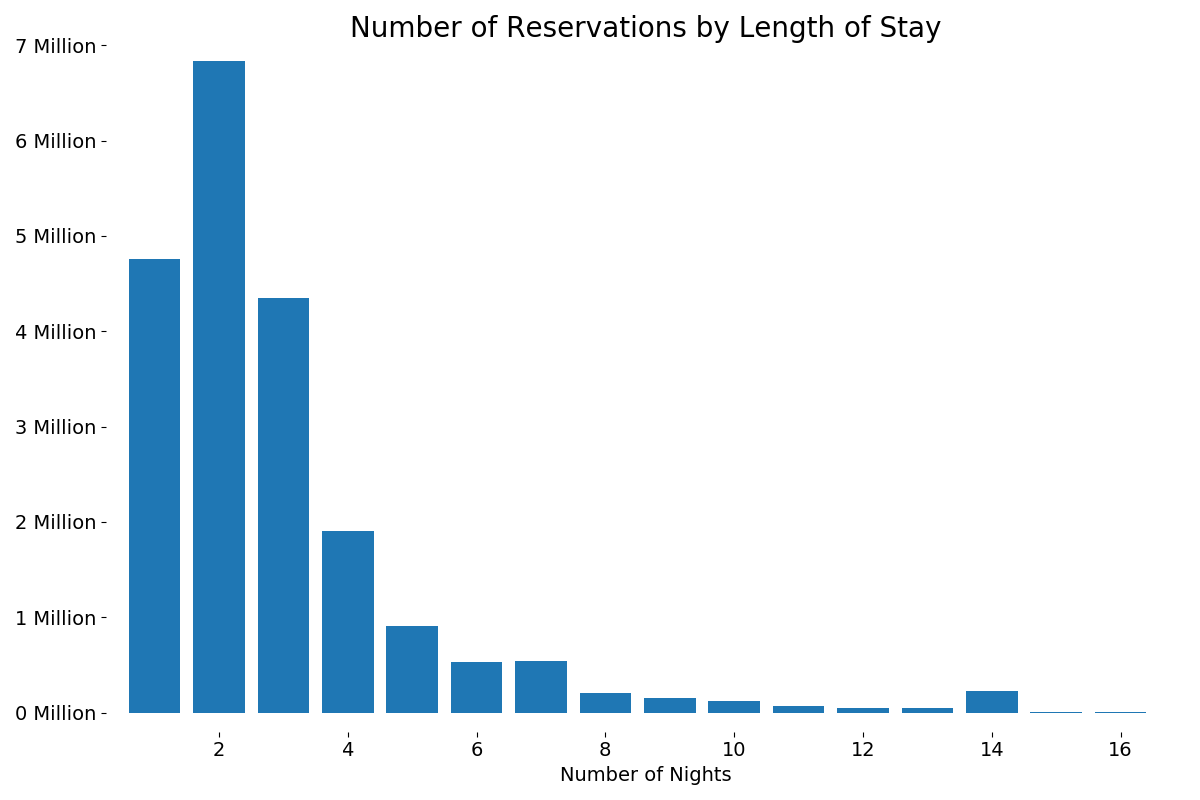
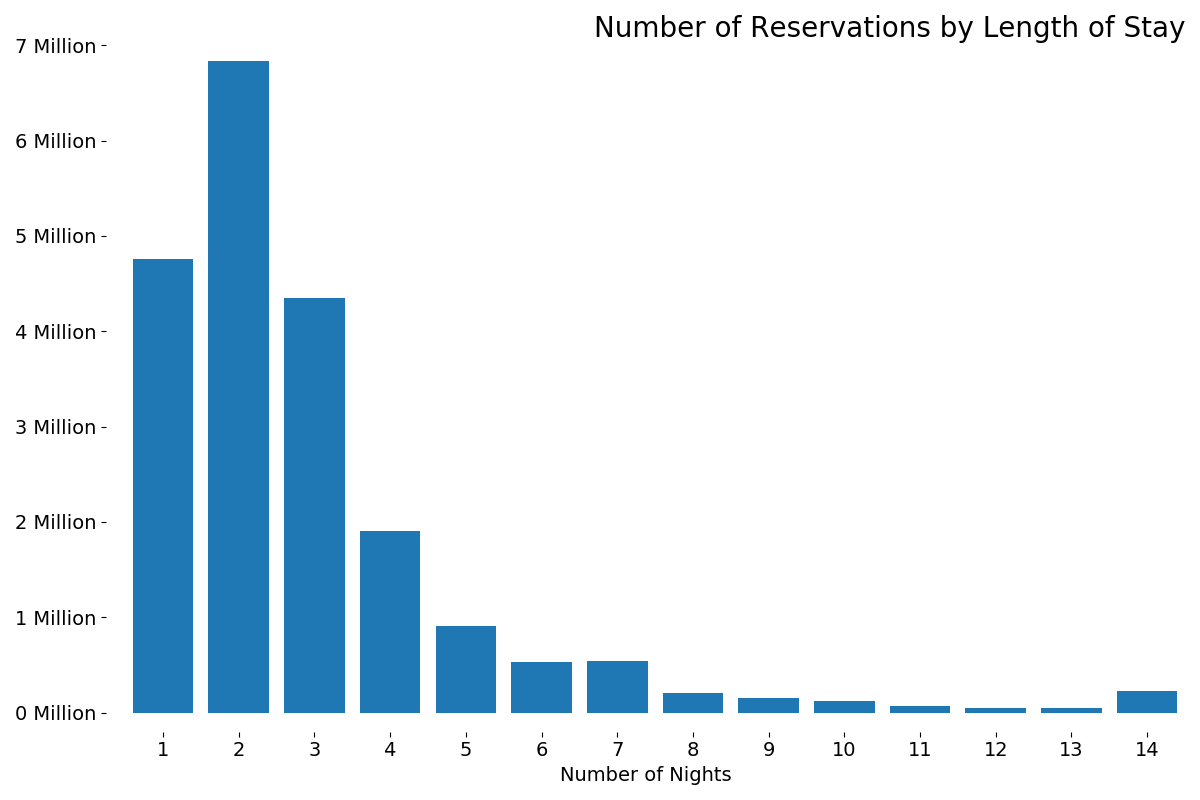
Tweak graphs, save README

diff --git a/src/visualizations/histogram_nights.py b/src/visualizations/histogram_nights.py
@@ -21,7 +21,6 @@ data['count(LengthOfStay)'] = 0
 for file in list_years:
     df = pd.read_pickle(cleanpath + 'CountsOfNights/' + file)
     df.fillna(0, inplace=True)
-    # data['count(LengthOfStay)'] += df['count(LengthOfStay)']
     data = pd.concat([data, df], sort=True)
 
 data = data.groupby('LengthOfStay').sum().reset_index()
@@ -35,7 +34,7 @@ ax = plt.subplot(111)
 
 plt.yticks(range(0, 7000001, 1000000),
            [str(x) + " Million" for x in range(0, 8)], fontsize=14)
-plt.xticks(fontsize=14)
+plt.xticks(range(1, 15), fontsize=14)
 
 ax.spines["top"].set_visible(False)
 ax.spines["bottom"].set_visible(False)
@@ -43,9 +42,11 @@ ax.spines["right"].set_visible(False)
 ax.spines["left"].set_visible(False)
 
 plt.ylim(-200000, 7000000)
-plt.xlim(.25, 17)
+plt.xlim(.25, 14.5)
 plt.xlabel('Number of Nights', fontsize=14)
-plt.title('Number of Reservations by Length of Stay', fontsize=20)
+plt.title('Number of Reservations by Length of Stay',
+          fontsize=20,
+          loc='right')
 
 plt.bar(data['LengthOfStay'], data['count(LengthOfStay)'])
 plt.tight_layout()

diff --git a/src/visualizations/make_gif.py b/src/visualizations/make_gif.py
@@ -27,7 +27,7 @@ def make_gif(sourcepath, folder, years=None):
                    append_images=frames[1:],
                    save_all=True,
                    duration=600,
-                   loop=1)
+                   loop=0)
 
 
 if __name__ == '__main__':

diff --git a/src/visualizations/maps/make_customer_distance.py b/src/visualizations/maps/make_customer_distance.py
@@ -3,7 +3,6 @@ import folium
 import os
 import time
 import selenium.webdriver
-import branca
 
 # Create filepaths within df directory
 mappath = os.path.split(os.path.abspath(''))[0]

diff --git a/src/visualizations/maps/make_facility_distance.py b/src/visualizations/maps/make_facility_distance.py
@@ -3,7 +3,6 @@ import folium
 import os
 import time
 import selenium.webdriver
-import branca
 
 # Create filepaths within df directory
 mappath = os.path.split(os.path.abspath(''))[0]

diff --git a/README.md b/README.md
@@ -40,7 +40,7 @@ The reservation data is provided as a seperate .csv for every year. Each year ha
 > LargeTentOver9x12 •
 > SmallTent
 
-In addition to the reservations, relational databases of campground information are also available for download.
+In addition to the reservations, relational databases of campground information are also available for download. One can extract another 50 attributes for every `FacilityID`.
 
 # Exploratory Analysis
 
@@ -50,23 +50,61 @@ Interestingly,  `Marinaboat` has only one non-null value in all of the years. Fu
 
 ![](/images/README/marinaboat.jpg)
 
-Formatting within the columns is mostly consistent, but does requrie type casting, truncation, and removing impurities.
+Formatting within the columns is mostly consistent, but does require type casting, truncation, and removing impurities.
 
-For most quereis, 35% of the data is removed for either formating or nulls or. For sorting by `FacilityZIP`, an unfortunate 60% is removed due to nulls.
+For most quereis, 35% of the data is removed for either formating or nulls. For sorting by `FacilityZIP`, an unfortunate 60% is removed due to nulls, but atleast 1 million rows remain in each year's data.
+
+# Conclusions
+
+## Distance Traveled vs. Number of Nights
+
+This analysis found no direct correlation between the average distance traveled<sup>[1](#myfootnote1)</sup> , and number of nights one stays at a facility. In almost every year, the standard deviation of the averages is greater than the mean itself.
+
+This data is complicated by rservations made to/from Alaska and Hawaii. Computation time did not allow for excluding these states as outliers.
+
+![](/images/HypothesisTest.png)
+
+However, the statistal distribution of the *averages for each year* do appear to differ with a pseudo p value of = 0.016
+
+These results are counterintuitive; it seems people travel longer the shorter the stay! Also, the distances for travel are improbable for a "weekend warior" trip. Fundamentally, the analysis is not accounting for how people actually travel. The basis for this analysis is one travels from the home address to the facility. In reality, reservations are likely linked together on road trips and vacations.
+
+![](/images/TypeOverTime.png)
+
+The large - and growing - proportion of resevations made for RV's and other motorized transport suppor this notion.
+
+## Distance by Customer's State
+![](/images/CustomerState.gif)
+
+As does the fact that, on average, reservations made from the North East, Flordia (and Hawaii and Alaska), are for a distance of +1,000 miles.
+
+## Distance by Destination's State
+![](/images/FacilityState.gif)
+
+Lastly, year after year, reservations are made from across the country to visit Alaska and the Grand Canyon.
+
+![](/images/README/manko.jpg)
+
 
 # Methods
 
 ### Big Data
-This project uses an Amazon Web Service's m5a.8xlarge EC2 instance. The instance builds and runs a docker pyspark container. The scripts issue SQL queries into a SparkContext and the results of the queries are saved as .pickels in `data/cleaned`. The clean .pkl files are moved into S3 storage, and then downloaded for analysis on a local machine.
+This project uses an Amazon Web Service's m5a.8xlarge EC2 instance. The instance runs and starts a docker pyspark container. The scripts issue SQL queries into a SparkContext for cleaning. Additionally, ZIP codes are converted into latitueds and longitudes, and the distance between the customer's home and the facility is calculated. The average computation time is 45 minutes per year.
+
+Lastly, the results are saved as .pickels in `data/cleaned`. The clean .pkl files are moved into AWS S3 storage, for backup / download.
 
 ### Further Cleaning
-The cleaned data are less than 10mb size: perfect for local analysis. The .pkl files are read into a pandas DataFrame. States outside of the United States are removed, as are reservations with impossible durations due to date boundries at the begining of year's dates.
+The cleaned data are less than 10mb size: perfect for local analysis. The .pkl files are read into pandas DataFrames. States outside of the United States are removed, as are reservations with impossible durations due to date boundries at the begining of year's dates.
 
 ### Matplotlib
+First, a histogram of the duration of stays is created. This histogram is used to decide the two "Length Of Stay" bins: weekend trips and trips longer than two nights.
+
+![](/images/HistogramOfNights.png)
+
+One's intuition is likely correct here. Reservations are usually two nights: the length of a weekend. Counts rapidly decline until another steep drop between 7 and 8 nights: the length of a week. Finally, there's a small spike at 14 nights: the maximum length of stay at most facilties.
 
 ### Folium
+Finally, folium is used to generate maps of the average distance between the `CustomerZIP` and the campground's location given either the `CustomerState` or the `FacilityState`. Selenium.webdriver is used to generate .png images from the interative maps, and PIL converts them into .gif seen above.
 
-# Conclusions
 
 # Further Analysis
 Combine all years into one. Get total info from them.
@@ -74,3 +112,10 @@ Combine all years into one. Get total info from them.
 Set up true distributed computation
 Analize all years together
 Add autosave
+
+ZIP codes
+
+bins for distnace
+
+# Footnotes
+<a name="myfootnote1">1</a>: as calculated by the orthdromic distance between a reservation's `customerZIP` code to a facility's (`FacilityLatitude`, `FacilityLongitude`). As mentioned in the conclusions, this is likely an innacurate measurment of the distance *actually* traveled.
